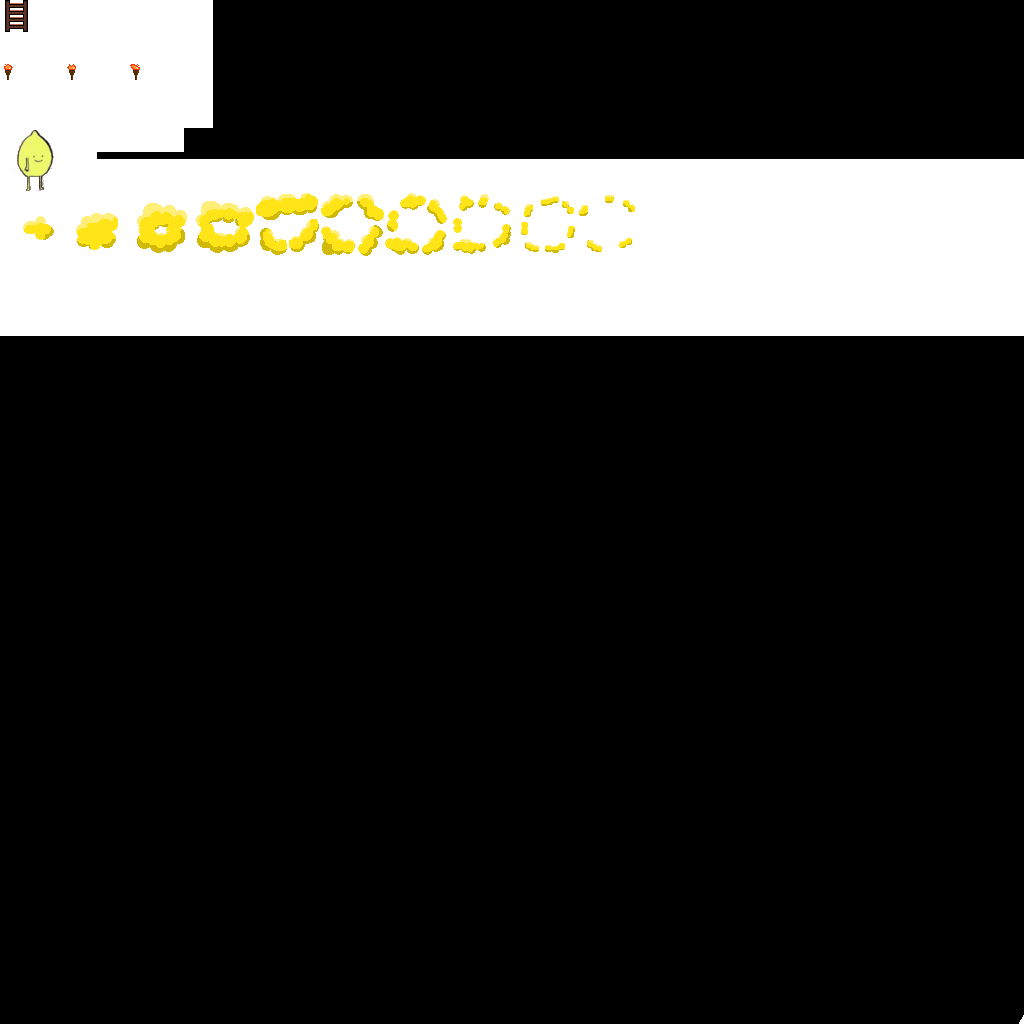
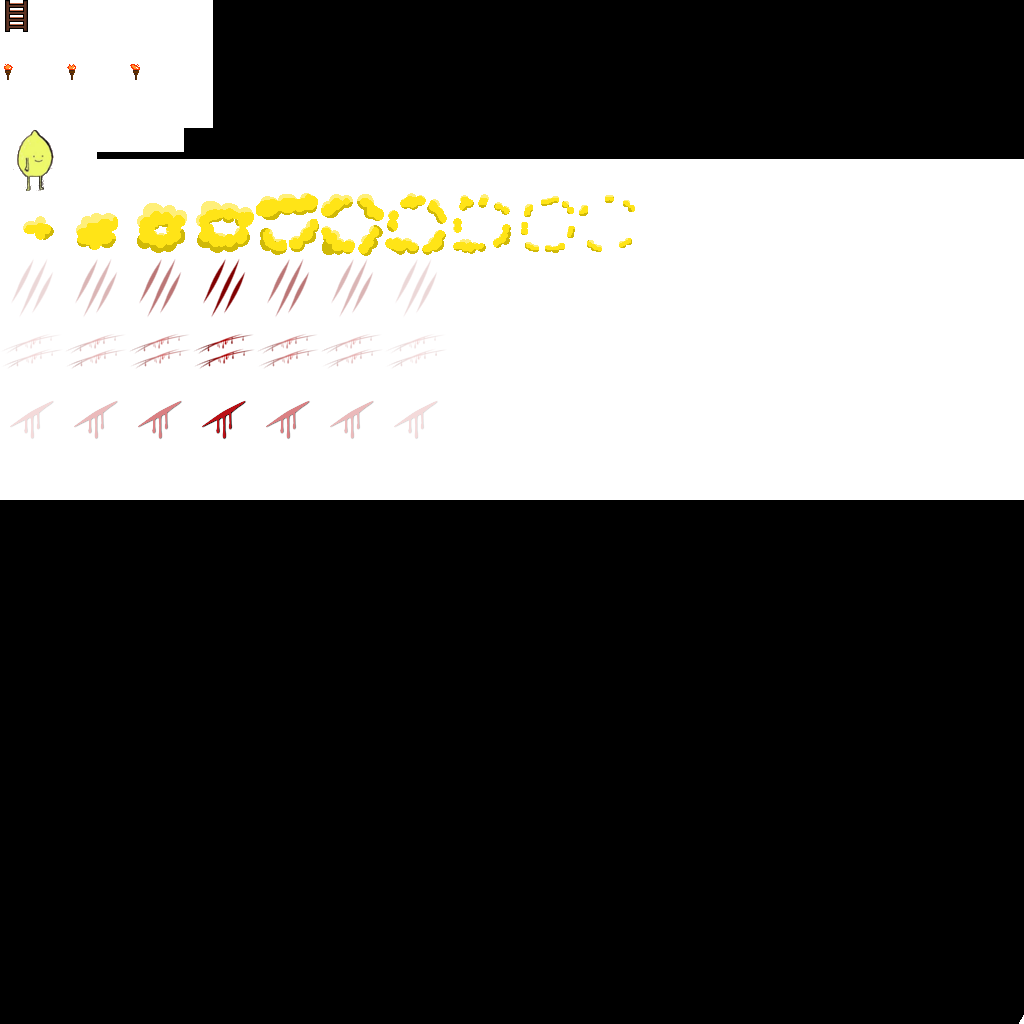
added hurt animations and fixed race bug

Changed region(s): [[0.0, 0.25, 1.0, 0.5], [0.4062, 0.25, 0.4375, 0.2812]]

diff --git a/bin/scene/entities/Mob.cpp b/bin/scene/entities/Mob.cpp
@@ -34,7 +34,10 @@ Mob::Mob(): Entity("mob"),Colisionable(),_gens()
     _attackColdown = 0;
                  _mobType = -1;
     _keyframe =0;
+                 _currHurtAnim = 0;
+                 _keyframeHurt =0;
                  _spriteTime = 0;
+                 _spriteTimeHurt = 0;
                  _focusDebug = false;
 
 
@@ -42,6 +45,8 @@ Mob::Mob(): Entity("mob"),Colisionable(),_gens()
 //Random spawn creator
 Mob::Mob(MobGenetics* t,int chunk, sf::Vector2f position): Entity("mob"),Colisionable(){
     _keyframe =0;
+    _keyframeHurt =0;
+    _currHurtAnim = 0;
     _gens = *t;
     _chunk = chunk;
     _target = nullptr;
@@ -62,13 +67,17 @@ Mob::Mob(MobGenetics* t,int chunk, sf::Vector2f position): Entity("mob"),Colisio
     _dead = false;
     _mobType = -1;
     _spriteTime = 0;
+    _spriteTimeHurt = 0;
     createRandomBody();
 
 }
 //Reproduction spawn
 Mob::Mob(MobGenetics* t1, MobGenetics* t2,std::vector<MobModule*>& modulesPartner1, int typeMobPartner1,std::vector<MobModule*>& modulesPartner2, int typeMobPartner2,int chunk, sf::Vector2f position, int index): Entity("mob"),Colisionable(),_gens(t1,t2, (float)(t1->_strenghtGen)/100){
     _keyframe =0;
+    _keyframeHurt =0;
     _spriteTime = 0;
+    _spriteTimeHurt = 0;
+    _currHurtAnim = 0;
     _chunk = chunk;
     _target = nullptr;
     vx =0;
@@ -82,9 +91,9 @@ Mob::Mob(MobGenetics* t1, MobGenetics* t2,std::vector<MobModule*>& modulesPartne
     _positionSpawn = sf::Vector2i(_position.x,_position.y);
     setEcosystemIndex(index);
     _timeToReproduce = rand() % std::max(_gens._reproduceFactor,1) + 10;
-    _life = rand() % std::max(_gens._health,1) + 10;
-    _hunger = rand() % std::max(_gens._foodNeeds,1) + 10;
-    _age = rand() % std::max(_gens._age,1) + 10;
+    _life = _gens._health;
+    _hunger = _gens._foodNeeds;
+    _age = _gens._age;
     _attackColdown = 0;
     _dead = false;
     _mobType = -1;
@@ -277,6 +286,12 @@ void Mob::draw(sf::RenderTarget & renderTar) {
             _spriteSpawn.setPosition(_positionSpawn.x, _positionSpawn.y+_sizeCol.y);
             _spriteSpawn.setTextureRect(sf::IntRect(64*_keyframe,64*3,64,64));
             renderTar.draw(_spriteSpawn);
+        }
+        if(_hurted){
+            _spriteHurt.setPosition(_positionCol.x, _positionCol.y);
+
+            _spriteHurt.setTextureRect(sf::IntRect(64*_keyframeHurt,64*_currHurtAnim,64,64));
+            renderTar.draw(_spriteHurt);
         }
         if(_focusDebug){
 
@@ -493,6 +508,7 @@ Mob* Mob::searchMobTarget(std::vector<Mob*> &mobs){
 bool Mob::update(float delta, Clock *c){
 
     _spriteTime += delta;
+    if(_hurted)_spriteTimeHurt += delta;
     float maxtime = float(SPAWN_SPRITE_MAX_TIME)/10.0f;
     if(_spriteTime > maxtime && _keyframe <10){
         _spriteTime -= maxtime;
@@ -501,7 +517,18 @@ bool Mob::update(float delta, Clock *c){
         }
 
     }
-        _attackColdown = std::max(0.f,_attackColdown-delta*10);
+    if(_spriteTimeHurt > maxtime && _keyframeHurt <7){
+        _spriteTimeHurt -= maxtime;
+        {
+            _keyframeHurt +=1;
+        }
+
+    } else if(_keyframeHurt>=7){
+        _spriteTimeHurt =0;
+        _hurted = false;
+        _keyframeHurt =0;
+    }
+        _attackColdown = std::max(0.f,_attackColdown-delta*50);
         Map* map = Scene::getScene()->getMap();
         bool is_visible_chunk = map->getIndexMatChunk(map->getChunkIndex(_positionCol.x)) != -1;
         Simplex2d* base_noise_temperature = NoiseGenerator::getNoise("base_noise_temperature");
@@ -592,7 +619,8 @@ sf::FloatRect Mob::getBoundingBox(){
     float bot = _position.y+64;
     bool first = true;
     for(int i=0; i<_modules.size(); i++){
-        sf::FloatRect bb = _modules[i]->getBoundingBox(_position,_gens._size/80.f,_mobDirection);
+        float ageFactor = 1.f-_age/(float)_gens._age;
+        sf::FloatRect bb = _modules[i]->getBoundingBox(_position,_gens._size/80.f*ageFactor+0.1,_mobDirection);
         if(first){
             left = bb.left;
             right = bb.width;
@@ -625,12 +653,21 @@ void Mob::simulateCombat(Mob* m){
 void Mob::attack(Mob* m){
     m->_target = this;
     if(_attackColdown ==0){
-        m->_life -= _gens._strenght/10;
+        m->hurt(_gens._strenght/10);
         _attackColdown= 100-_gens._atackSpeed+10;
         std::cout << "mob atackking!!!!!!!!!!" << std::endl;
     }
-
 }
+void Mob::hurt(float amount){
+    sf::Texture *t = Resources::getTexture("entities");
+    _spriteHurt.setTexture(*t);
+    _currHurtAnim = (rand()%3+4);
+
+    _keyframeHurt=0;
+    _hurted = true;
+    _life -= amount;
+}
+
 void Mob::targetAction() {
     if(_target->_typeEntity=="mob"){
         Mob *m = static_cast<Mob*>(_target);
@@ -643,10 +680,13 @@ void Mob::targetAction() {
 }
 bool Mob::isNearTarget() {
     if(_target !=nullptr && !_target->_removed){
-        sf::Vector2f posE = _target->getPositionCol();
-        int distance = sqrt((posE.x-_positionCol.x)*(posE.x-_positionCol.x)+(posE.y-_positionCol.y)*(posE.y-_positionCol.y));
-        if(distance<DISTANCE_NEAR) return true;
-        return false;
+        sf::FloatRect boundBoxE = _target->getBoundingBox();
+        sf::FloatRect boundBox = getBoundingBox();
+        boundBoxE.width = boundBoxE.left-boundBoxE.width;
+        boundBoxE.height = boundBoxE.top-boundBoxE.height;
+        boundBox.width = boundBox.left-boundBox.width;
+        boundBox.height = boundBox.top-boundBox.height;
+        return boundBox.intersects(boundBoxE);
     } else _target = nullptr;
     return false;
 }
@@ -655,13 +695,15 @@ void Mob::updateVisible(float delta){
         int newDecision;
         //MODULES
         for(int i = 0; i<_modules.size(); i++){
-            if(_target != nullptr && _modules[i]->hasAnimation("attacking")) _modules[i]->update(delta,_position,_gens._size/80.f,"attacking",_mobDirection);
-            else if(vx !=0 && _modules[i]->hasAnimation("walking")) _modules[i]->update(delta,_position,_gens._size/80.f,"walking",_mobDirection);
-            else _modules[i]->update(delta,_position,_gens._size/80.f,"idle",_mobDirection);
+            float ageFactor = 1.f-_age/(float)_gens._age;
+            if(_target != nullptr && _modules[i]->hasAnimation("attacking")) _modules[i]->update(delta,_position,_gens._size/80.f*ageFactor+0.1,"attacking",_mobDirection);
+            else if(vx !=0 && _modules[i]->hasAnimation("walking")) _modules[i]->update(delta,_position,_gens._size/80.f*ageFactor+0.1,"walking",_mobDirection);
+            else _modules[i]->update(delta,_position,_gens._size/80.f*ageFactor+0.1,"idle",_mobDirection);
         }
         if(_target == nullptr) newDecision = rand() % 1000;
         else {
             if(_target->_removed) _target = nullptr;
+            else if(isNearTarget()) newDecision = 2;
             else if(_target->getPositionCol().x > getPositionCol().x) newDecision = 1;
             else newDecision = 0;
         }

diff --git a/bin/scene/entities/Mob.h b/bin/scene/entities/Mob.h
@@ -36,6 +36,8 @@ public:
     void saveToFile(int chunk, std::ofstream &myfile);
     void loadFromFile(std::ifstream &myfile);
     void draw(sf::RenderTarget & renderTar);
+    void hurt(float amount);
+    sf::FloatRect getBoundingBox();
     bool _dead;
     int _mobType;
     float _life;
@@ -44,7 +46,7 @@ public:
     float _timeToReproduce;
     bool _focusDebug;
 private:
-    sf::FloatRect getBoundingBox();
+
     Entity* _target;
     int getRelationMob(int idRace);
     void searchNeighbors(std::vector<Mob*> &enemys,std::vector<Mob*> &friends,std::vector<Mob*> &neutral,std::vector<Mob*> &food);
@@ -61,13 +63,17 @@ private:
     sf::Vector2i _positionSpawn;
     MobGenetics _gens;
     sf::Sprite _spriteSpawn;
+    sf::Sprite _spriteHurt;
+    int _currHurtAnim;
     sf::Vector2f size;
     Decision _mobDecision;
     AnimationDirection _mobDirection;
     std::vector<MobModule*> _modules;
-
+    int _keyframeHurt;
     int _keyframe;
     float _spriteTime;
+    float _spriteTimeHurt;
+    bool _hurted;
 
 };
 

diff --git a/bin/scene/entities/MobGenetics.cpp b/bin/scene/entities/MobGenetics.cpp
@@ -183,7 +183,10 @@ void MobGenetics::mutateRaces(){
         else if(dest==2) destVector = &_food;
         else if(dest==3) destVector = &_neutral;
         if(!fromVector->empty()){
-            destVector->push_back((*fromVector)[rand()%fromVector->size()]);
+            int index =rand()%fromVector->size();
+            int newRace = (*fromVector)[index];
+            (*fromVector).erase((*fromVector).begin()+index);
+            destVector->push_back(newRace);
         }
     }
 }

diff --git a/bin/scene/entities/Entity.h b/bin/scene/entities/Entity.h
@@ -28,6 +28,7 @@ public:
     virtual void draw(sf::RenderTarget & renderTar);
     virtual void saveToFile(int chunk, std::ofstream &myfile);
     virtual void loadFromFile(std::ifstream &myfile);
+    virtual sf::FloatRect getBoundingBox();
 protected:
     int _ecosystemIndex;
 };

diff --git a/bin/scene/entities/Entity.cpp b/bin/scene/entities/Entity.cpp
@@ -50,3 +50,6 @@ sf::Vector2f Entity::getPosition(){
 sf::Vector2f Entity::getPositionCol(){
     return _positionCol;
 }
+sf::FloatRect Entity::getBoundingBox(){
+    return sf::FloatRect(_positionCol.x,_positionCol.y,_positionCol.x+_sizeCol.x+1,_positionCol.y+_sizeCol.y+1);
+}
